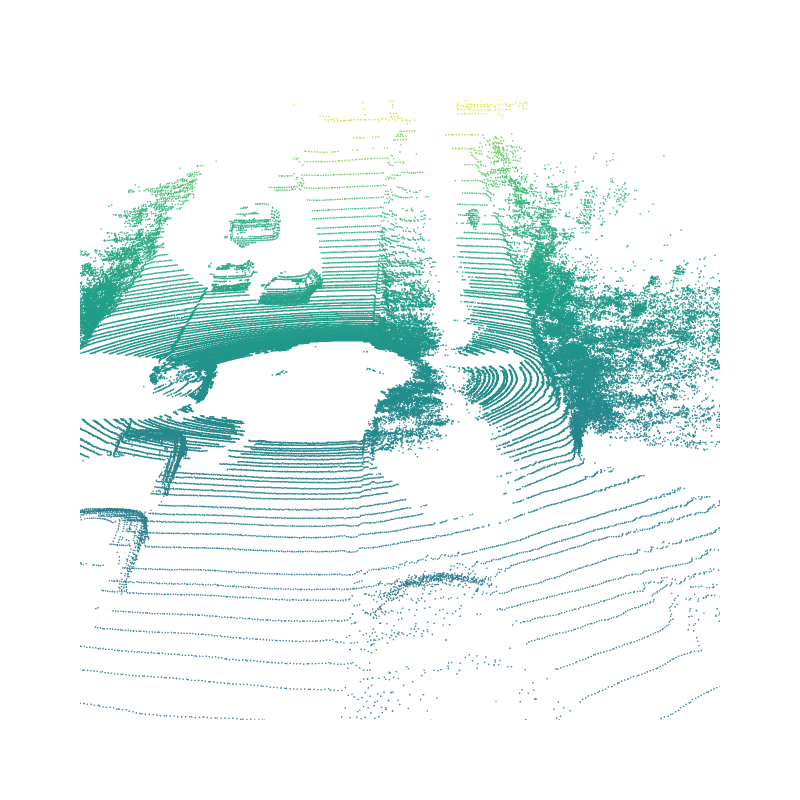
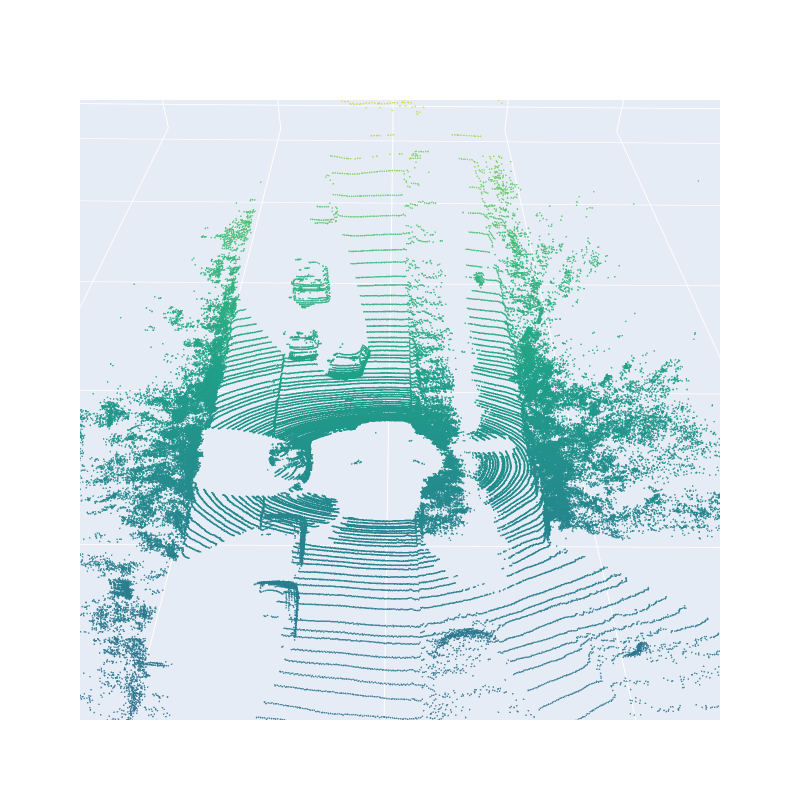
10 update

diff --git a/10_3d_pointcloud/README.md b/10_3d_pointcloud/README.md
@@ -1,29 +1,46 @@
 # 3D Point Cloud
+*Credits: Mengdi Fan and Daniel Pan*
+*Note: Data used here are modified from KITTI dataset.*
 
 ### Resources
- - [kitti](https://www.cvlibs.net/datasets/kitti/eval_object.php?obj_benchmark=3d)
- - [tutorial](https://github.com/dtczhl/dtc-KITTI-For-Beginners/tree/ca140be438371cee224057fd9e9632d3c9b46b14)
- - [tutorial](https://towardsdatascience.com/kitti-coordinate-transformations-125094cd42fb)
- - [calibration](https://github.com/charlesq34/frustum-pointnets/blob/master/kitti/kitti_util.py)
+ - [KITTI](https://www.cvlibs.net/datasets/KITTI/eval_object.php?obj_benchmark=3d)
+ - [KITTI tutorial](https://github.com/dtczhl/dtc-KITTI-For-Beginners/tree/ca140be438371cee224057fd9e9632d3c9b46b14)
+ - [KITTI coordinate transformations](https://towardsdatascience.com/KITTI-coordinate-transformations-125094cd42fb)
+ - [some example codes for KITTI](https://github.com/kuixu/kitti_object_vis)
+ - [Plotly](https://plotly.com/python/)
 
 ### Homework
  1. update your forked repo from my repo([ref](https://docs.github.com/en/pull-requests/collaborating-with-pull-requests/working-with-forks/syncing-a-fork))
  1. following [01_git](../01_git/), create a new branch `LAST#_10pc` (ex: pan667_10pc) in your forked repo
  1. read and understand what KITTI Point Cloud format is
- 1. download `kitti raw data development kit` [here](https://www.cvlibs.net/datasets/kitti/raw_data.php) and `kitti object development kit ` [here](https://www.cvlibs.net/datasets/kitti/eval_object.php?obj_benchmark=3d), read `readme.txt` in both kits and tutorials to understand 
-    - how kitti organize its dataset
+ 1. download `KITTI raw data development kit` [here](https://www.cvlibs.net/datasets/KITTI/raw_data.php) and `KITTI object development kit ` [here](https://www.cvlibs.net/datasets/KITTI/eval_object.php?obj_benchmark=3d), read `readme.txt` in both kits and tutorials to understand 
+    - how KITTI organize its dataset
     - coordinate systems of different sensors (each sensor, like camera1, camera2, or lidar, has its origion and coordinate system)
     - how to transform from one coordinate system to another (e.g. lidar to camera) by calibration matrix (e.g. `calib.txt`)
     - annotation file (what each column means, for example in `label.txt`)
  1. activate the environment you created in [03_conda](../03_conda/)
- 1. install `Plotly` with Jupyter-lab support
+ 1. install `Plotly` with `Jupyter-lab` support
  1. create a notebook under `submissions` and name as `LAST#.ipynb`
- 1. start jupyterlab, it should open a window in your browser. open your LAST#.ipynb
- 1. write your code to visualize point cloud in Velodyne coordinate; use graph_objects Scatter3d package of Plotly
-    - aspect ratio [x, y, z] = [1, 1, 0.1]
- 1. project point cloud in Velodyne coordinate to Camera coordinate (hint: refer to `calibration` [here](https://github.com/charlesq34/frustum-pointnets/blob/master/kitti/kitti_util.py)) and visualize in Camera coordinate (aspect ratio [x, y, z] = [1, 0.1, 1]); set point color changing with distance (different color from closer to further). you should get results looking like the following:
+ 1. start `jupyterlab`, it should open a window in your browser. open your `LAST#.ipynb`
+ 1. write your code to read in point cloud
+    - use `fromfile` in `numpy`
+    - default data type in `fromfile` is `float64` but KITTI uses `float32`, specify data type when reading
+    - point clouds in KITTI consist of 4 channels, x, y, z and r (reflectance); you will see a 1D array (x1, y1, z1, r1, x2, y2, z2, r2, ...) after reading; reshape this array into (N, 4); you can drop the last column r to become (N, 3)
+ 1. write your code to visualize point cloud in Velodyne coordinate (no projection needed right now); use `graph_objects.Scatter3d` in `Plotly`
+    - set aspect ratio of [x, y, z] to [1, 1, 0.15] (important step, without it you can barely recognize the shape of objects due to stretch in z)
+ 1. write your code to visualize point cloud in Camera coordinate; use `graph_objects.Scatter3d` in `Plotly` (projection needed because in KITTI 3D bounding boxes are annotated in camera coordinate. To correctly plot the boxes, you either project point clouds to camera coordinate or boxes to Velodyne coordinate. Here we try the former.)
+    - X2 = R0_rect @ Tr_velo_to_cam @ X1 (This formula is in the readme of KITTI. Please try to understand it. Basically it converts points from Velodyne coordinate to camera coordinate and then rectifies it.)
+    - Now turn all matrices and points to homogeneous; append a row (0, 0, 0, 1) to Tr_velo_to_cam (3, 4) to become (4, 4); pad R0_rect (3, 3) with zeros to become (4, 4) and assign element at (4, 4) to 1; append a column of 1 to X1 (N, 3) to become (N, 4)
+    - do the multiplication following the formula (you need to transpose X1 to (4, N) and transpose X2 back to (N, 4) because think about the rule of matrix multiplication: (4, 4) @ (4, N) = (4, N))
+    - drop the last column in X2 and plot it (similar to previous item but aspect ratio becomes [1, 0.15, 1] because now y axis is pointing to the ground). You should get the result like the following:
     ![demo1.jpg](p1.png)
-
- 1. rotate the bounding box using yaw-angle, refer to [here](https://github.com/dtczhl/dtc-KITTI-For-Beginners/tree/ca140be438371cee224057fd9e9632d3c9b46b14), draw 3d bounding boxes on the point cloud in the Camera coordinate, you should get results looking like the following:
-    ![demo1.jpg](p2.png)
-
+ 1. write your code to visualize 3d bounding boxes in Camera coordinate; use `graph_objects.Scatter3d` in `Plotly`
+    - read `label.txt` and parse each line; if the class is "DontCare" skip it; otherwise grab h, w, l, tx, ty, tz, yaw (see the KITTI readme for meanings of each column)
+    - get 8 corners of a box with h, w, l which uses center of top face as reference point (this is important because the rotation is operated about the reference point)
+    - use [roty](https://github.com/kuixu/kitti_object_vis/blob/master/kitti_util.py#L343) to get the rotation matrix and multiply it with 8 corners
+    - translate 8 corners with tx, ty, tz
+    - plot the box with 8 corners by `Scatter3d` and use `add_trace` to update the figure (tips: Each point in the list will have an edge connection in scatter with its previous point. Apparently you can not connect all corners at one stroke, so you can think about constructing the list in the way that draws top rectangle first, and then bottom rectangle, and then four edges connecting them. `None` can be the separator in the list to avoid an edge between two points in the list.)
+    - you can try to follow the example code [here](https://github.com/kuixu/kitti_object_vis/blob/master/kitti_util.py#L601)
+    - you should get the result like the following:
+    ![demo2.jpg](p2.png)
+ 1. stage changes, commit with the message "learning KITTI", push and submit a pr
